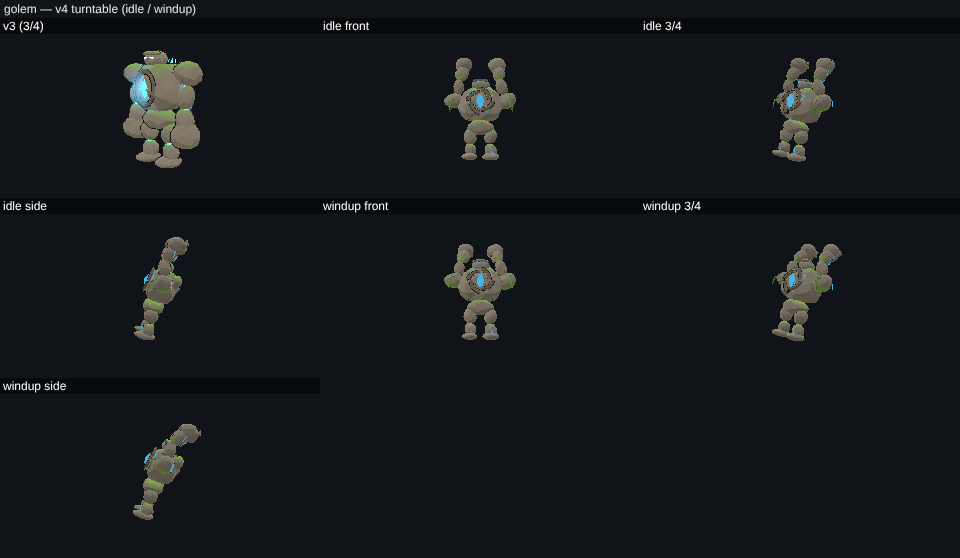
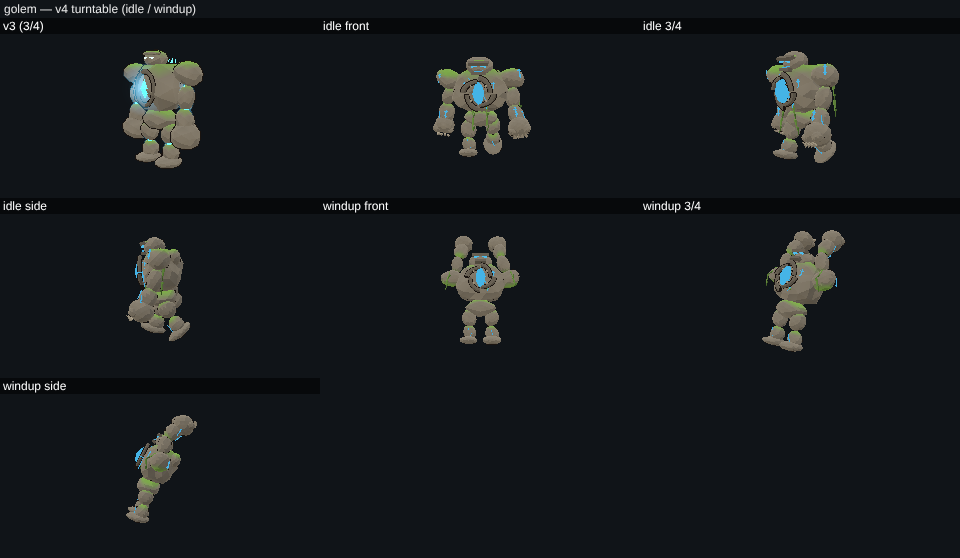
bosses v4 fix: review gate - tight turntable framing; golem face and core, hydra heads/necks/frills/jaws/eyes, thicker nidhoggra with larger shards, treant split chest plates with the rot heart window and thicker vines; notes
Claude-Session: https://claude.ai/code/session_01P3YgZoXzBKsrUJowNLocSe

diff --git a/src/enemies/bosses/hydra.js b/src/enemies/bosses/hydra.js
@@ -50,7 +50,8 @@ function geos() {
       P(S(r0 * 1.02, 12, 6), HC.scaleDark, [0, 0.05, 0], [0, 0, 0], [1, 0.35, 1]),
       P(K(r0 * 0.36, 1.0, 4), HC.fin, [0, SEG_LEN / 2, -r0], [-0.9, 0, 0], [1, 1, 0.3]),
     ]);
-    const segs = [segOf(1.15, 1.05), segOf(1.05, 0.95), segOf(0.95, 0.86), segOf(0.86, 0.78), segOf(0.78, 0.72), segOf(0.72, 0.7)];
+    const NR = 1.3;   // review: thicker necks (three distinct necks at range)
+    const segs = [segOf(1.15 * NR, 1.05 * NR), segOf(1.05 * NR, 0.95 * NR), segOf(0.95 * NR, 0.86 * NR), segOf(0.86 * NR, 0.78 * NR), segOf(0.78 * NR, 0.72 * NR), segOf(0.72 * NR, 0.7 * NR)];
     const head = mergeParts([
       P(S(1, 16, 12), HC.scale, [0, 0.2, 0.4], [0, 0, 0], [1.15, 0.85, 1.45]),
       P(S(1, 14, 10), HC.scale, [0, 0.05, 1.7], [0.1, 0, 0], [0.75, 0.5, 1.15]),
@@ -58,29 +59,33 @@ function geos() {
       // horns + gill fins
       P(K(0.22, 1.6, 6), HC.horn, [0.55, 0.9, -0.3], [-0.9, 0, -0.35]),
       P(K(0.22, 1.6, 6), HC.horn, [-0.55, 0.9, -0.3], [-0.9, 0, 0.35]),
-      P(K(0.45, 1.3, 4), HC.fin, [1.05, 0.1, -0.1], [0, 0.4, -1.4], [1, 1, 0.25]),
-      P(K(0.45, 1.3, 4), HC.fin, [-1.05, 0.1, -0.1], [0, -0.4, 1.4], [1, 1, 0.25]),
-      P(K(0.35, 1.0, 4), HC.finDark, [0, 0.9, 0.6], [-0.4, 0, 0], [1, 1, 0.25]),
+      P(K(0.75, 2.1, 4), HC.fin, [1.1, 0.1, -0.2], [0, 0.4, -1.4], [1, 1, 0.22]),
+      P(K(0.75, 2.1, 4), HC.fin, [-1.1, 0.1, -0.2], [0, -0.4, 1.4], [1, 1, 0.22]),
+      P(K(0.5, 1.5, 4), HC.finDark, [1.0, -0.35, 0.2], [0, 0.5, -1.9], [1, 1, 0.2]),
+      P(K(0.5, 1.5, 4), HC.finDark, [-1.0, -0.35, 0.2], [0, -0.5, 1.9], [1, 1, 0.2]),
+      P(K(0.6, 1.7, 4), HC.finDark, [0, 1.0, 0.3], [-0.6, 0, 0], [1, 1, 0.22]),
+      P(K(0.45, 1.2, 4), HC.fin, [0, 0.85, -0.6], [-0.9, 0, 0], [1, 1, 0.22]),
       // upper teeth
       ...[-0.42, -0.14, 0.14, 0.42].map((x) => P(K(0.07, 0.3, 4), HC.teeth, [x, -0.25, 2.3], [Math.PI, 0, 0])),
     ]);
     const jaw = mergeParts([
-      P(S(1, 12, 9), HC.scaleDark, [0, -0.1, 1.0], [0, 0, 0], [0.65, 0.3, 1.25]),
+      P(S(1, 12, 9), HC.scaleDark, [0, -0.15, 1.0], [0, 0, 0], [0.75, 0.38, 1.35]),
+      P(S(0.5, 8, 6), HC.belly, [0, -0.38, 0.9], [0, 0, 0], [1.2, 0.4, 2.0]),
       ...[-0.36, -0.1, 0.1, 0.36].map((x) => P(K(0.06, 0.26, 4), HC.teeth, [x, 0.18, 1.8], [0, 0, 0])),
     ]);
     const eyes = glowify(mergeParts([
-      P(S(0.16, 8, 6), 0xd8e86a, [0.62, 0.42, 1.25], [0, 0, 0], [1.2, 0.7, 0.8]), P(S(0.16, 8, 6), 0xd8e86a, [-0.62, 0.42, 1.25], [0, 0, 0], [1.2, 0.7, 0.8]),
-      P(B(0.04, 0.17, 0.05), 0x1a2410, [0.66, 0.42, 1.36]), P(B(0.04, 0.17, 0.05), 0x1a2410, [-0.66, 0.42, 1.36]),          // slit pupils
+      P(S(0.24, 8, 6), 0xe4f07a, [0.66, 0.44, 1.25], [0, 0, 0], [1.25, 0.75, 0.8]), P(S(0.24, 8, 6), 0xe4f07a, [-0.66, 0.44, 1.25], [0, 0, 0], [1.25, 0.75, 0.8]),
+      P(B(0.06, 0.26, 0.05), 0x1a2410, [0.72, 0.44, 1.4]), P(B(0.06, 0.26, 0.05), 0x1a2410, [-0.72, 0.44, 1.4]),          // slit pupils
       ...[-0.42, -0.14, 0.14, 0.42].map((x) => P(K(0.03, 0.12, 4), 0xc8eef0, [x, -0.3, 2.28], [Math.PI, 0, 0])),           // faint tooth glints
     ]), 1.15);
     const core = glowify(mergeParts([P(OCT(1.0), 0x7fe8ff, [0, 2.2, 3.4], [0, 0, 0], [1, 1.4, 0.7]), P(T(1.3, 0.12, 16), 0x4fb4ff, [0, 2.2, 3.3])]), 1.15);
     // silhouette proxy (outline + rim source + the only shadow caster): body, neck segments, heads
     const pBody = mergeParts([P(S(1, 10, 7), HC.scale, [0, 0.4, 0], [0, 0, 0], [5.6, 2.6, 6.6]), P(S(1, 8, 6), HC.scale, [0, 0.9, -3.4], [0, 0, 0], [3.8, 1.9, 3.8])]);
-    const pSeg = [1.15, 1.05, 0.95, 0.86, 0.78, 0.72].map((r0, k) => mergeParts([P(C(r0 * 0.93, r0, SEG_LEN + 0.35, 7), HC.scale, [0, SEG_LEN / 2, 0])]));
+    const pSeg = [1.15, 1.05, 0.95, 0.86, 0.78, 0.72].map((r0) => mergeParts([P(C(r0 * NR * 0.93, r0 * NR, SEG_LEN + 0.35, 7), HC.scale, [0, SEG_LEN / 2, 0])]));
     const pHead = mergeParts([P(S(1, 9, 6), HC.scale, [0, 0.2, 0.4], [0, 0, 0], [1.15, 0.85, 1.45]), P(S(1, 8, 6), HC.scale, [0, 0.05, 1.7], [0.1, 0, 0], [0.75, 0.5, 1.15])]);
-    pHead.scale(1.35, 1.35, 1.35);
+    pHead.scale(1.6, 1.6, 1.6);
     const ring = new THREE.TorusGeometry(2.5, 0.08, 6, 32);
-    for (const q of [head, jaw, eyes]) q.scale(1.35, 1.35, 1.35);
+    for (const q of [head, jaw, eyes]) q.scale(1.6, 1.6, 1.6);   // review: heads read at range
     return { body, segs, head, jaw, eyes, core, ring, pBody, pSeg, pHead };
   });
 }
@@ -107,7 +112,7 @@ export function buildHydra() {
     bones.push(jaw); parts.push([bones.length - 1, g.jaw]);
     // element shield glyph (own material per head so it can be recoloured as a uniform)
     const ring = new THREE.Mesh(g.ring, ringMat('hydra' + n, 0x7fd3ff));
-    ring.position.set(0, 0.4, 1.5); ring.rotation.x = 0.2; ring.frustumCulled = false;
+    ring.position.set(0, 0.5, 2.2); ring.rotation.x = 0.2; ring.frustumCulled = false;
     head.add(ring);
     necks.push({ base, segs, head, jaw, ring, baseYaw: yaw });
   }

diff --git a/src/enemies/bosses/treant.js b/src/enemies/bosses/treant.js
@@ -24,7 +24,7 @@ export const TREANT_DATA = {
   stomp: 26, sweep: 24, roots: 20, pod: 22,
 };
 const HIP = 6.6;
-const TC = { bark: 0x6a5440, barkDark: 0x46362a, barkLight: 0x8a7258, moss: 0x6a8a44, rot: 0x7a4a9a, rotDark: 0x4a2c6a, leaf: 0x6a8a3a, dead: 0x5a4a38, plate: 0x9a7a58, crack: 0x2a1e16, cap: 0xb86a3a, capSpot: 0xe8d8b0, stem: 0xd8c8a0, hollow: 0x1e1610 };
+const TC = { bark: 0x6a5440, barkDark: 0x46362a, barkLight: 0x8a7258, moss: 0x7aa04a, rot: 0x7a4a9a, rotDark: 0x4a2c6a, leaf: 0x6a8a3a, dead: 0x5a4a38, plate: 0xb48c60, crack: 0x24180f, cap: 0xb86a3a, capSpot: 0xe8d8b0, stem: 0xd8c8a0, hollow: 0x1e1610 };
 
 function geos() {
   return once('treant', () => {
@@ -66,8 +66,10 @@ function geos() {
         // root feet
         ...Array.from({ length: 5 }, (_, i) => P(K(0.5, 2.6, 5), TC.bark, [Math.sin(i * 1.26 - 2.5) * 1.1, -3.1, Math.cos(i * 1.26 - 2.5) * 1.1 + 0.6], [Math.PI / 2 - 0.3, 0, -Math.sin(i * 1.26 - 2.5) * 0.6])),
       ]),
-      plateChest: mergeParts([P(S(2.3, 10, 8, 0, Math.PI), TC.plate, [0, 3.4, 1.4], [0, 0, 0], [1.1, 1.3, 0.55]), P(B(0.25, 3.6, 0.3), TC.barkDark, [0, 3.4, 2.65]),
-        ...[[-1.0, 4.2, 0.5], [0.9, 2.6, -0.6], [-0.6, 2.2, 0.9], [1.1, 4.4, 0.3]].map(([x, y, rz]) => P(B(0.1, 1.2, 0.12), TC.crack, [x, y, 2.55], [0, 0, rz])),
+      // two bevelled chest slabs with a window between them: the rot heart glows through the rib-roots (review)
+      plateChest: mergeParts([...[-1, 1].map((sx) => P(S(1.3, 10, 8), TC.plate, [sx * 1.4, 3.5, 1.75], [0, sx * 0.35, 0], [0.78, 2.0, 0.5])),
+        ...[-1, 1].map((sx) => P(S(1.3, 8, 6), TC.barkDark, [sx * 1.42, 3.5, 1.6], [0, sx * 0.35, 0], [0.86, 2.08, 0.42])),   // dark bevel rim
+        ...[[-1.25, 4.3, 0.5], [1.2, 2.7, -0.6], [-1.55, 2.6, 0.9], [1.45, 4.4, 0.3]].map(([x, y, rz]) => P(B(0.1, 1.2, 0.12), TC.crack, [x, y, 2.33], [0, 0, rz])),
         P(B(2.6, 0.18, 0.4), TC.barkLight, [0, 4.9, 2.35], [0.3, 0, 0]), P(B(2.4, 0.18, 0.4), TC.barkLight, [0, 1.9, 2.3], [-0.3, 0, 0])]),
       plateBack: mergeParts([P(S(2.3, 10, 8), TC.plate, [0, 3.6, -1.5], [0, 0, 0], [1.1, 1.3, 0.5]), P(B(3.2, 0.25, 0.3), TC.barkDark, [0, 3.8, -2.6]),
         ...[[-0.8, 4.4, 0.4], [0.7, 3.0, -0.5], [0, 2.4, 0.2]].map(([x, y, rz]) => P(B(0.1, 1.1, 0.12), TC.crack, [x, y, -2.65], [0, 0, rz]))]),
@@ -86,9 +88,9 @@ function geos() {
         P(S(0.38, 9, 7), TC.barkDark, [0, 0.35, 1.5], [0, 0, 0], [1.4, 0.6, 0.6]), P(S(0.22, 8, 6), TC.hollow, [0, 0.35, 1.68], [0, 0, 0], [1.6, 0.45, 0.4]),
         P(S(0.25, 7, 5), TC.barkLight, [0.35, 0.2, 1.7]), P(S(0.2, 7, 5), TC.barkLight, [-0.4, 0.45, 1.68])]),
       fingers: mergeParts([-0.6, -0.2, 0.2, 0.6].flatMap((x, i) => [P(K(0.14, 1.2, 5), TC.dead, [x * 1.3, -5.7, 0.6 + (i % 2) * 0.2], [0.6, 0, x * 0.8])])),
-      vine: mergeParts([P(C(0.07, 0.1, 1.6, 5), TC.moss, [0, -0.8, 0]), P(S(0.18, 6, 4), TC.leaf, [0.1, -1.3, 0.05], [0, 0, 0], [1, 0.5, 1.4])]),
+      vine: mergeParts([P(C(0.12, 0.17, 1.6, 5), TC.moss, [0, -0.8, 0]), P(S(0.28, 6, 4), TC.leaf, [0.14, -1.0, 0.08], [0, 0, 0], [1, 0.5, 1.4]), P(S(0.24, 6, 4), TC.leaf, [-0.12, -1.5, 0.06], [0, 0, 0], [1, 0.5, 1.4])]),
       glowHead: glowify(mergeParts([P(S(0.28, 8, 6), 0xd9a0ff, [0.62, 1.4, 1.55], [0, 0, 0], [1.4, 0.7, 0.5]), P(S(0.28, 8, 6), 0xd9a0ff, [-0.62, 1.4, 1.55], [0, 0, 0], [1.4, 0.7, 0.5])]), 1.15),
-      heart: glowify(mergeParts([P(OCT(1.0), 0x9be86a, [0, 0, 0], [0, 0, 0], [1, 1.35, 0.8]), P(T(1.25, 0.1, 14), 0xb36bff, [0, 0, 0])]), 1.15),
+      heart: glowify(mergeParts([P(OCT(1.0), 0x9be86a, [0, 0, 0], [0, 0, 0], [0.62, 1.3, 0.75]), P(OCT(0.5), 0xd6f5b0, [0, 0, 0.35], [0, 0, 0], [0.6, 1.2, 0.6]), P(T(0.9, 0.08, 14), 0xb36bff, [0, 0, 0.1])]), 1.15),
       pod: (() => { const g = new THREE.IcosahedronGeometry(0.55, 1); return g; })(),
     };
   });
@@ -98,7 +100,7 @@ export function buildTreant() {
   const g = geos();
   const m = humanoid(g, { hipY: HIP, neckY: 6.6, shoulderX: 3.0, shoulderY: 5.4, upperLen: 4.2, foreLen: 4.0, hipX: 1.5, thighLen: 3.4 });
   const plateChest = pivot(m.spine), plateBack = pivot(m.spine), plateArmR = pivot(m.armR), plateArmL = pivot(m.armL);
-  const heartB = pivot(m.spine, 0, 3.6, 1.9);
+  const heartB = pivot(m.spine, 0, 3.5, 2.05);
   m.bones.push(plateChest, plateBack, plateArmR, plateArmL, heartB);
   const n = m.bones.length;
   m.parts.push([n - 5, g.plateChest], [n - 4, g.plateBack], [n - 3, g.plateArm], [n - 2, g.plateArm]);

diff --git a/src/enemies/bosses/golem_model.js b/src/enemies/bosses/golem_model.js
@@ -19,7 +19,7 @@ function geos() {
   // rune strip: a carved groove (dark stone lip) + the glowing inlay on top, oriented on a rock face
   const runeGeo = mergeParts([P(B(0.08, 0.62, 0.06), 0xc8e4f2, [0, 0, 0]), P(B(0.26, 0.06, 0.06), 0xc8e4f2, [0, 0.18, 0]), P(B(0.2, 0.06, 0.06), 0xc8e4f2, [0, -0.16, 0])]);
   const seamGeo = mergeParts([P(B(0.05, 0.5, 0.05), 0xb8dcee, [0, 0, 0], [0, 0, 0.35]), P(B(0.04, 0.34, 0.05), 0xb8dcee, [0.1, -0.36, 0], [0, 0, -0.4])]);
-  const coreGeo = new THREE.OctahedronGeometry(0.5, 1); coreGeo.scale(0.85, 1.25, 0.6);
+  const coreGeo = new THREE.OctahedronGeometry(0.62, 1); coreGeo.scale(0.85, 1.25, 0.6);
   const coreInner = new THREE.OctahedronGeometry(0.26, 0); coreInner.scale(0.8, 1.3, 0.7);
   const coreMerged = mergeParts([P(coreGeo, 0xbfe6f4, [0, 0, 0]), P(coreInner, 0xe2f2f8, [0, 0, 0.12])]);
   // cage: 4 rock arcs around the core (each its own bone so they can swing open)
@@ -27,9 +27,11 @@ function geos() {
     P(K(0.08, 0.3, 4), STONE_L, [0.55, 0.55, 0.05], [0, 0, -0.8])]);
   const knuckles = mergeParts([0, 1, 2, 3].map((i) => P(K(0.12, 0.42, 5), STONE_L, [-0.36 + i * 0.24, -0.62, 0.45], [1.25, 0, 0])));
   const strand = mergeParts([P(K(0.09, 0.9, 5), MOSS, [0, -0.45, 0], [Math.PI, 0, 0]), P(K(0.06, 0.5, 5), MOSS_D, [0.06, -0.75, 0.02], [Math.PI, 0, 0.2])]);
-  const eyes = mergeParts([P(B(0.26, 0.08, 0.1), 0xd2f0fa, [0.25, 0.48, 0.66], [0, 0, -0.2]), P(B(0.26, 0.08, 0.1), 0xd2f0fa, [-0.25, 0.48, 0.66], [0, 0, 0.2]),
-    P(B(0.07, 0.07, 0.04), 0xe8f6fb, [0.27, 0.49, 0.71]), P(B(0.07, 0.07, 0.04), 0xe8f6fb, [-0.23, 0.49, 0.71])]);
-  const brow = mergeParts([P(B(1.05, 0.16, 0.34), STONE_D, [0, 0.62, 0.62], [0.25, 0, 0])]);
+  // face (review: readable from the front): deep-set glowing eye slits under a heavy brow, a glowing mouth crack
+  const eyes = mergeParts([P(B(0.36, 0.12, 0.12), 0xd2f0fa, [0.3, 0.5, 0.86], [0, 0, -0.22]), P(B(0.36, 0.12, 0.12), 0xd2f0fa, [-0.3, 0.5, 0.86], [0, 0, 0.22]),
+    P(B(0.1, 0.1, 0.05), 0xe8f6fb, [0.32, 0.51, 0.93]), P(B(0.1, 0.1, 0.05), 0xe8f6fb, [-0.28, 0.51, 0.93]),
+    P(B(0.5, 0.06, 0.08), 0xb8dcee, [0, 0.16, 0.9], [0, 0, 0.06]), P(B(0.16, 0.05, 0.08), 0xb8dcee, [0.3, 0.2, 0.86], [0, 0.3, -0.4])]);
+  const brow = mergeParts([P(B(1.3, 0.22, 0.4), STONE_D, [0, 0.68, 0.8], [0.3, 0, 0]), P(B(0.9, 0.2, 0.3), STONE_D, [0, 0.02, 0.84], [-0.2, 0, 0])]);
   shared = { rock, lo, runeGeo, seamGeo, coreMerged, arc, knuckles, strand, eyes, brow };
   return shared;
 }
@@ -64,7 +66,7 @@ export function buildGolemModel() {
   fl(R(spine, 0.6, 11, [1, 0.9, 0.7], true, -0.8, 1.8, -1.0));
   seam(spine, 0, 1.4, -1.35, Math.PI);
   // crystal core inside the cage ring (the weak point)
-  const coreGroup = pivot(spine, 0, 1.1, 1.2);
+  const coreGroup = pivot(spine, 0, 1.1, 1.38);
   const core = pivot(coreGroup);
   glowParts.push([bi(core), G.coreMerged]);
   const cage = [];
@@ -75,7 +77,7 @@ export function buildGolemModel() {
   }
   // ---- head
   const neck = pivot(spine, 0, 2.35, 0.25);
-  const head = fl(R(neck, 0.62, 17, [1.25, 0.8, 1.0], true, 0, 0.45, 0.1), 0.04);
+  const head = fl(R(neck, 0.74, 17, [1.25, 0.85, 1.0], false, 0, 0.42, 0.08), 0.04);
   rocks.push([bi(neck), G.brow]);
   glowParts.push([bi(neck), G.eyes]);
   R(neck, 0.35, 21, [2.2, 0.5, 0.8], true, 0, 0.72, 0.45, 1, false);

diff --git a/tools/playtest4/bosses.js b/tools/playtest4/bosses.js
@@ -320,11 +320,42 @@ module.exports = async function bosses(PT) {
     // ---------------------------------------------------------------- --sheets: turntables (near / far; front, 3/4, side; idle + windup)
     if (PT.flags.sheets) {
       const frames = await pg.eval(async ({ id }) => {
-        const g = game, b = BT.boss(), R = g.render;
+        const g = game, b = BT.boss(), R = g.render, T = g.THREE;
         if (!R?.snapshot) return [];
         const obj = b.modelRoot || b.model?.root || b.object;
         const out = [];
-        const shot = async (label, yaw, k) => out.push({ url: await R.snapshot(obj, { w: 320, h: 180, yaw: yaw + (b.facing || 0), pitch: 0.12, dist: 0 }).then((u) => u, () => null), label, k });
+        // tight framing (review gate): hidden children (pooled props, inactive rings) are detached for the shot so the
+        // snapshot's bounds are the visible model, and the distance fits the visible box to ~88 % of the 16:9 cell
+        const box = new T.Box3(), bb = new T.Box3(), ctr = new T.Vector3(), cr = new T.Vector3(), cu = new T.Vector3(), cf = new T.Vector3(), q = new T.Vector3();
+        const fitDist = (yawW, pitch) => {
+          box.makeEmpty();
+          obj.updateMatrixWorld(true);
+          obj.traverseVisible((o) => {
+            if (!(o.isMesh || o.isSprite) || !o.geometry) return;
+            if (o.isInstancedMesh || o.isSkinnedMesh) { if (o.isInstancedMesh && !o.count) return; o.computeBoundingBox(); bb.copy(o.boundingBox).applyMatrix4(o.matrixWorld); }
+            else { if (!o.geometry.boundingBox) o.geometry.computeBoundingBox(); bb.copy(o.geometry.boundingBox).applyMatrix4(o.matrixWorld); }
+            box.union(bb);
+          });
+          box.getCenter(ctr);
+          cf.set(Math.sin(yawW) * Math.cos(pitch), Math.sin(pitch), Math.cos(yawW) * Math.cos(pitch));
+          cr.set(0, 1, 0).cross(cf).normalize(); cu.copy(cf).cross(cr).normalize();
+          let hx = 0, hy = 0, hz = 0;
+          for (let i = 0; i < 8; i++) {
+            q.set(i & 1 ? box.max.x : box.min.x, i & 2 ? box.max.y : box.min.y, i & 4 ? box.max.z : box.min.z).sub(ctr);
+            hx = Math.max(hx, Math.abs(q.dot(cr))); hy = Math.max(hy, Math.abs(q.dot(cu))); hz = Math.max(hz, Math.abs(q.dot(cf)));
+          }
+          const tv = Math.tan((30 * Math.PI / 180) / 2), th = tv * 320 / 180;
+          return Math.max(hy / tv, hx / th) / 0.88 + hz;
+        };
+        const shot = async (label, yaw, k) => {
+          const hid = [];
+          obj.traverse((o) => { if (o !== obj && !o.visible && o.parent && !hid.some(([x]) => { for (let p = o.parent; p; p = p.parent) if (p === x) return true; return false; })) hid.push([o, o.parent]); });
+          for (const [o, p] of hid) p.remove(o);
+          const yw = yaw + (b.facing || 0);
+          const url = await R.snapshot(obj, { w: 320, h: 180, yaw: yw, pitch: 0.12, dist: fitDist(yw, 0.12) }).then((u) => u, () => null);
+          for (const [o, p] of hid) p.add(o);
+          out.push({ url, label, k });
+        };
         b.vulnerableUntil = -1; BT.run(0.5);
         await shot('idle front', 0, 1); await shot('idle 3/4', 0.8, 1); await shot('idle side', 1.57, 1);
         const a = b.attacks[0]?.id; const h = a ? b.debugAttack(a) : null;

diff --git a/src/enemies/bosses/nidhoggra_model.js b/src/enemies/bosses/nidhoggra_model.js
@@ -108,7 +108,7 @@ export function buildNidhoggra() {
   for (let i = 0; i < 4; i++) rods.setColorAt(i, _c.setHex(0x8a7aa8));
   rods.instanceColor.needsUpdate = true; rods.count = 0; rods.visible = false;
 
-  const head = new THREE.Group(); head.scale.setScalar(1.9); root.add(head);
+  const head = new THREE.Group(); head.scale.setScalar(2.3); root.add(head);
   const headMesh = new THREE.Mesh(g.head, vcMat()); headMesh.castShadow = true; addOutline(headMesh, 0.09); head.add(headMesh);
   const jawPivot = new THREE.Group(); jawPivot.position.set(0, -0.6, 0.6); head.add(jawPivot);
   const jawMesh = new THREE.Mesh(g.jaw, vcMat()); addOutline(jawMesh, 0.08); jawPivot.add(jawMesh);
@@ -159,7 +159,7 @@ export function layBody(model, curve, out, t) {
     if (spacing < 1e-4) _n.set(0, 0, -1);
     _look.lookAt(_n.multiplyScalar(-1).add(_p), _p, _up);   // +Z along the spine toward the head
     _q.setFromRotationMatrix(_look);
-    const r = ((1 - u) * 2.6 + 0.6 + (u < 0.15 ? (0.15 - u) * 4 : 0)) * 1.7;
+    const r = ((1 - u) * 2.6 + 0.8 + (u < 0.15 ? (0.15 - u) * 4 : 0)) * 2.15;   // review: thicker coil (reads at range)
     const breathe = 1 + Math.sin(t * 1.6 - i * 0.4) * 0.03;
     // segments stretch along the spine so the body reads as one continuous coil (no gaps between the scales)
     _s.set(r * breathe, r * breathe, Math.max(r * 1.15, spacing / 2.0));

diff --git a/src/enemies/bosses/nidhoggra.js b/src/enemies/bosses/nidhoggra.js
@@ -621,8 +621,8 @@ export function createNidhoggra(ctx, arena, opts = {}) {
       if (st.shardIdx === s.i) {
         _w.set(C0.x - s.pillar.pos.x, 0, C0.z - s.pillar.pos.z).normalize();
         s.pos.set(s.pillar.pos.x + _w.x * 3.2, s.pillar.top + 1.8, s.pillar.pos.z + _w.z * 3.2);
-      } else s.pos.copy(segPts[4 + s.i * 4]).setY(segPts[4 + s.i * 4].y + 5.5);
-      const sc = s.broken ? 0.001 : 1 + (st.shardIdx === s.i ? Math.sin(t * 6) * 0.12 : 0);
+      } else s.pos.copy(segPts[4 + s.i * 4]).setY(segPts[4 + s.i * 4].y + 7.5);
+      const sc = s.broken ? 0.001 : 1.5 + (st.shardIdx === s.i ? Math.sin(t * 6) * 0.18 : 0);
       _m.compose(s.pos, _q.setFromAxisAngle(_w.set(0, 1, 0), t * 0.8 + s.i), _s.set(sc, sc, sc));
       model.shards.setMatrixAt(s.i, _m);
     }

diff --git a/docs/v4/notes/bosses.md b/docs/v4/notes/bosses.md
@@ -98,3 +98,21 @@ No playtest3 section is owned by bosses; the boss expectations for `tools/playte
 - The golem is still pre-built as the v3 model by the v3 `enemies.js`; golem.js builds the v4 model at spawn (0 new programs measured) until
   mobs' `prewarmGolem` call lands (in `mobs-b`).
 - Enemy-FX coverage is measured branch-side with `vfx-b` + legacy particles; the hard number is the integration I-check.
+
+## Fix round 1 (after integration review)
+- **Boot safety (@noBosses)**: `bossbase.js` and `golem.js` no longer statically import `./bosses/codex.js` / `golem_model.js`; both use
+  top-level `await import(...).catch(() => null)` with empty fallbacks (codex → null/[]/{}; golem model → `createGolem` throws a clear
+  error, `prewarmGolem` returns null). `golem.js` now takes `codexOf` / `registerBossCodex` from `bossbase.js`. bootcheck `@noBosses`:
+  `stubbed: []` (was `["enemies"]`).
+- **Instanced toon warm**: `bossbase.warmInstancedToon(game)` (called from `prewarmGolem`, inside the boot prewarm, before `game.ready`)
+  draws a 1-instance InstancedMesh with instanceColor and a default `toonMat` once, so nidhoggra's `nid-body` (toonRim+dis, layer
+  mask 15) is no new program on the plateau. The material is kept alive (disposing it releases the program). Repro (check-11 path):
+  programs 161 → 162 on boss spawn before; 162 → 162 after.
+- **treant.pods B1**: a pod started by `debugAttack('treant.pods')` is `fused` (hits do not pop it early; cleared on burst / cancel);
+  AI pods stay poppable as designed. B1 rows now report `diedAt` when a handle died before lock. `PT_BOSS_ATTACKS=<ids>` filters B1.
+- **Review gate (models + sheets)**: turntables detach hidden children for the shot and fit the visible box to ~88 % of the 16:9 cell.
+  golem: larger face (eye slits, mouth crack, heavy brow; head without moss), bigger core set forward in the cage. hydra: necks ×1.3,
+  heads ×1.6 (proxy too), large gill frills + head sail, deeper jaw with a lower lip, larger glowing slit-pupil eyes; shield ring moved
+  forward. nidhoggra: coil radius ×1.26 (tail thicker), head ×1.21, oath shards ×1.5 and higher above the spine. treant: chest plate split
+  into two bevelled light slabs with a window where the rot heart (now slimmer, with an inner core) glows through the rib-roots;
+  thicker, brighter vines with two leaves. Same draw calls (all merged into existing skins/instanced meshes).
